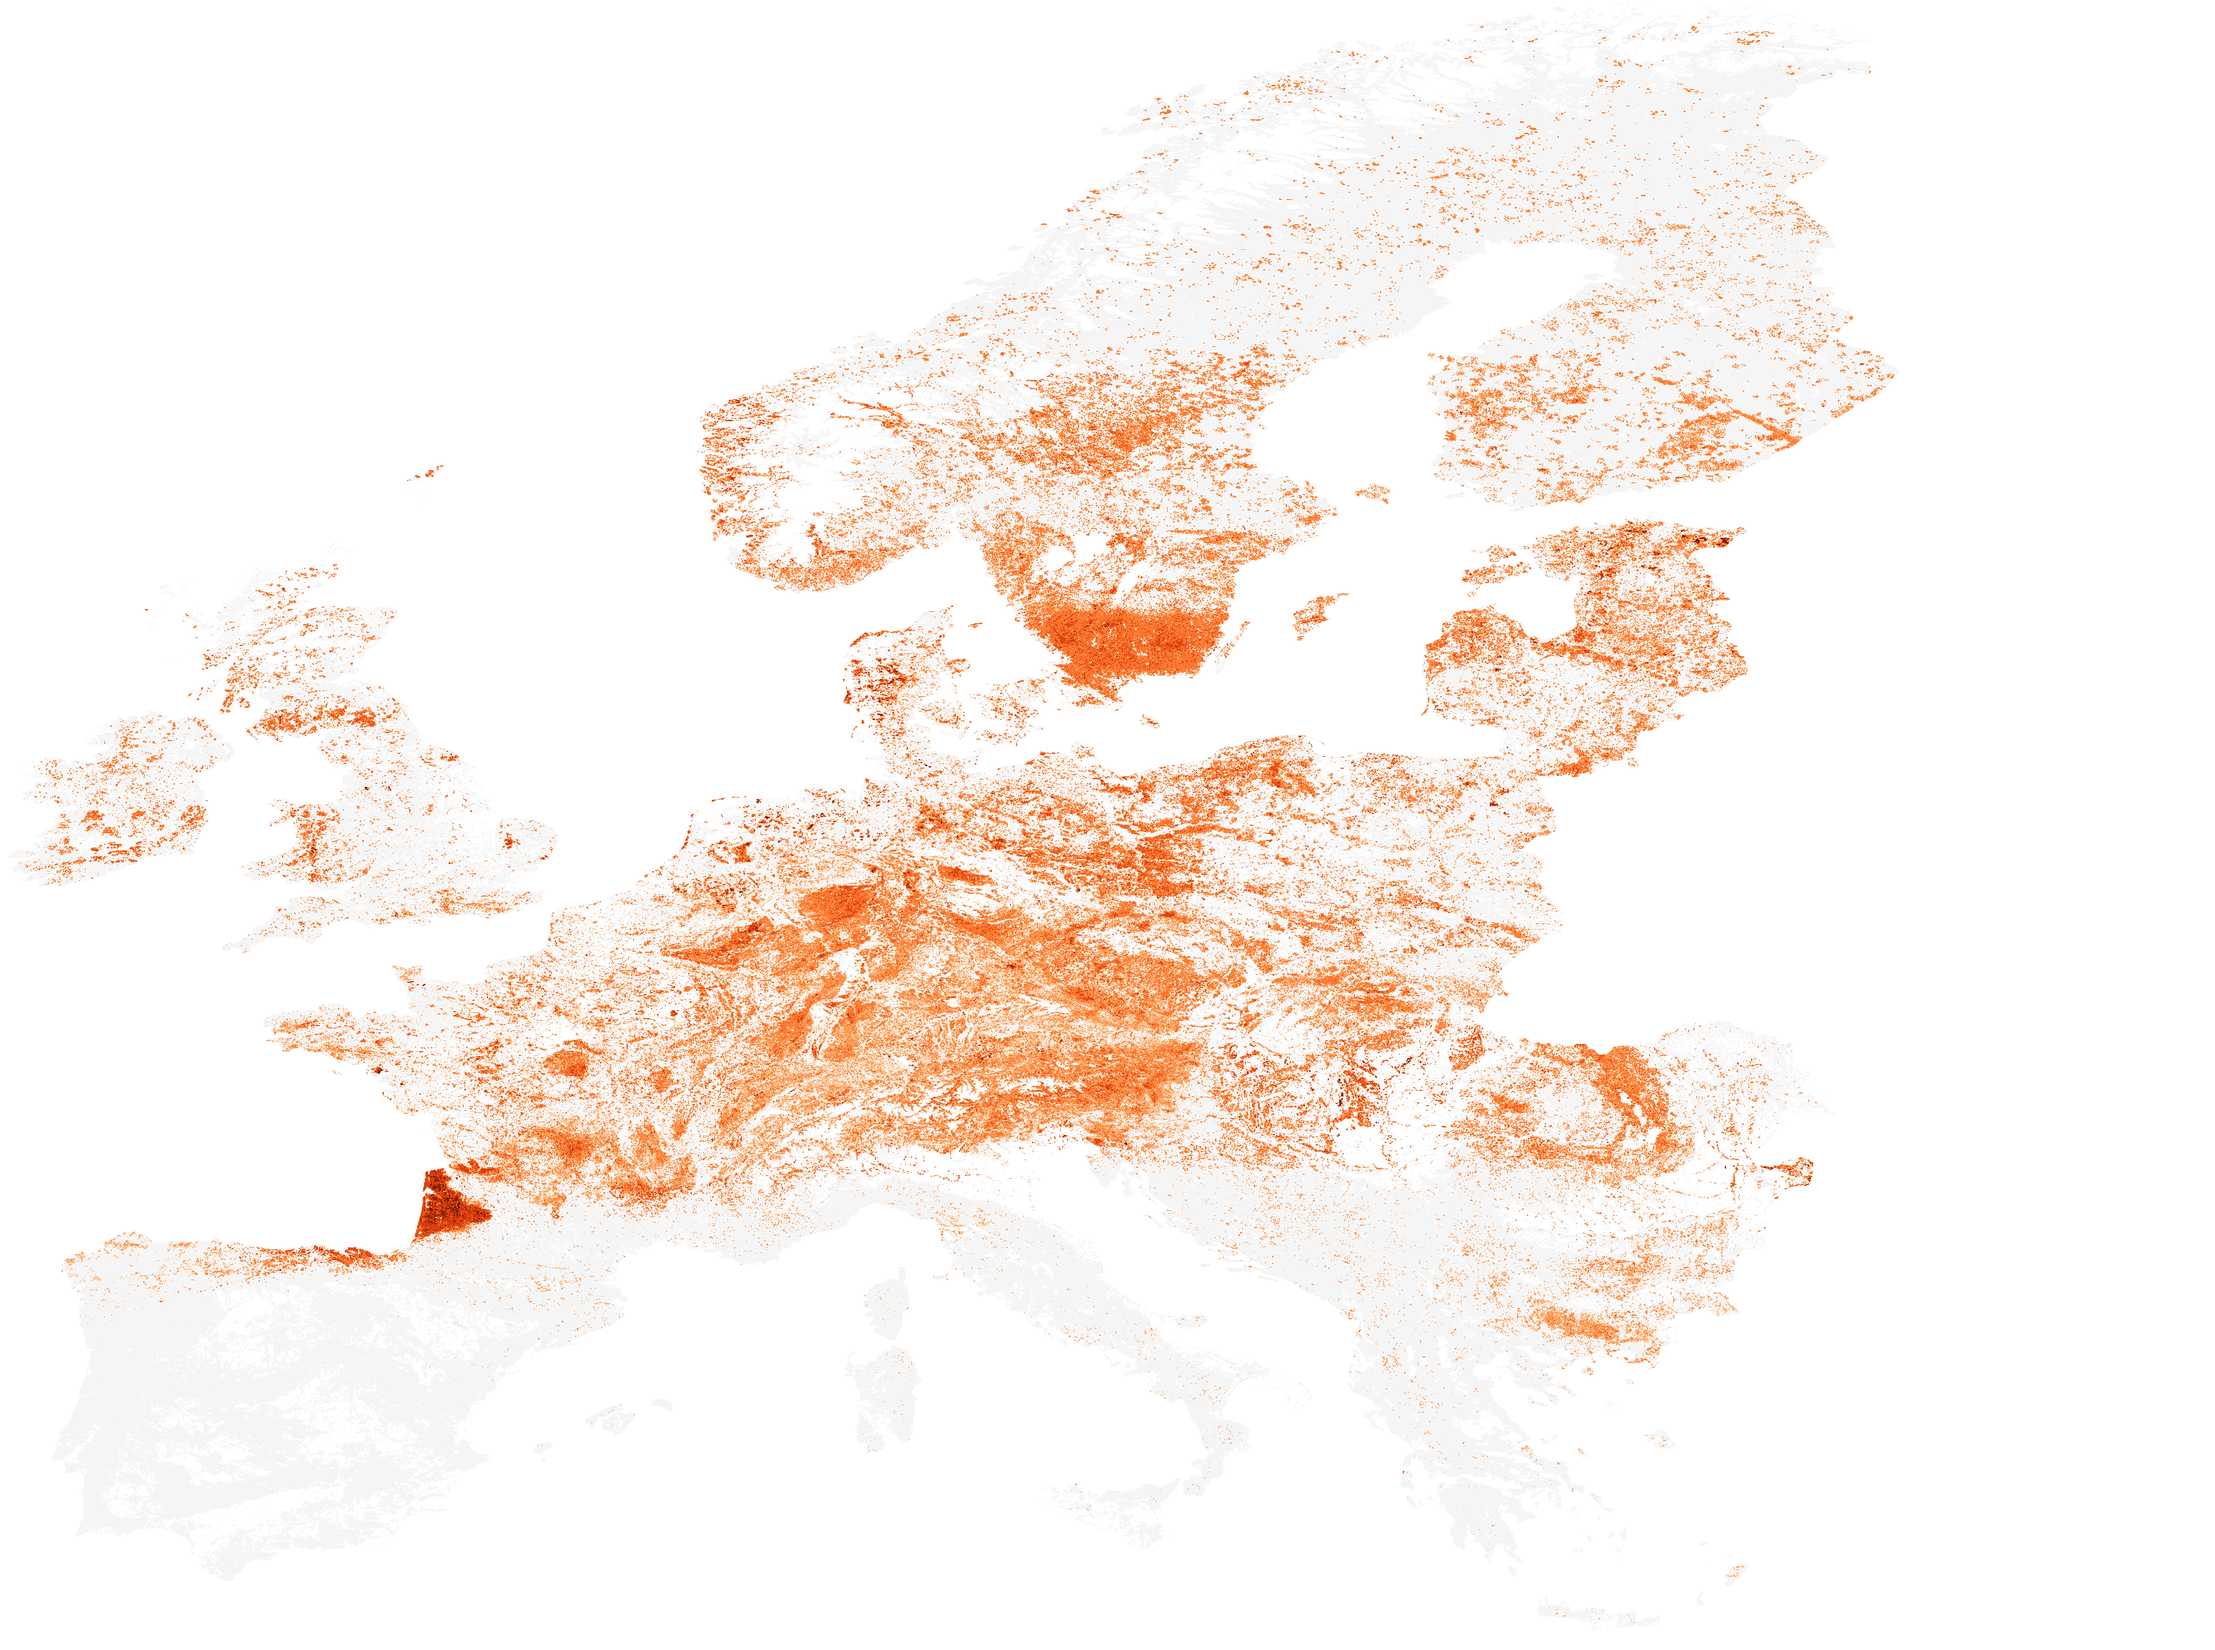
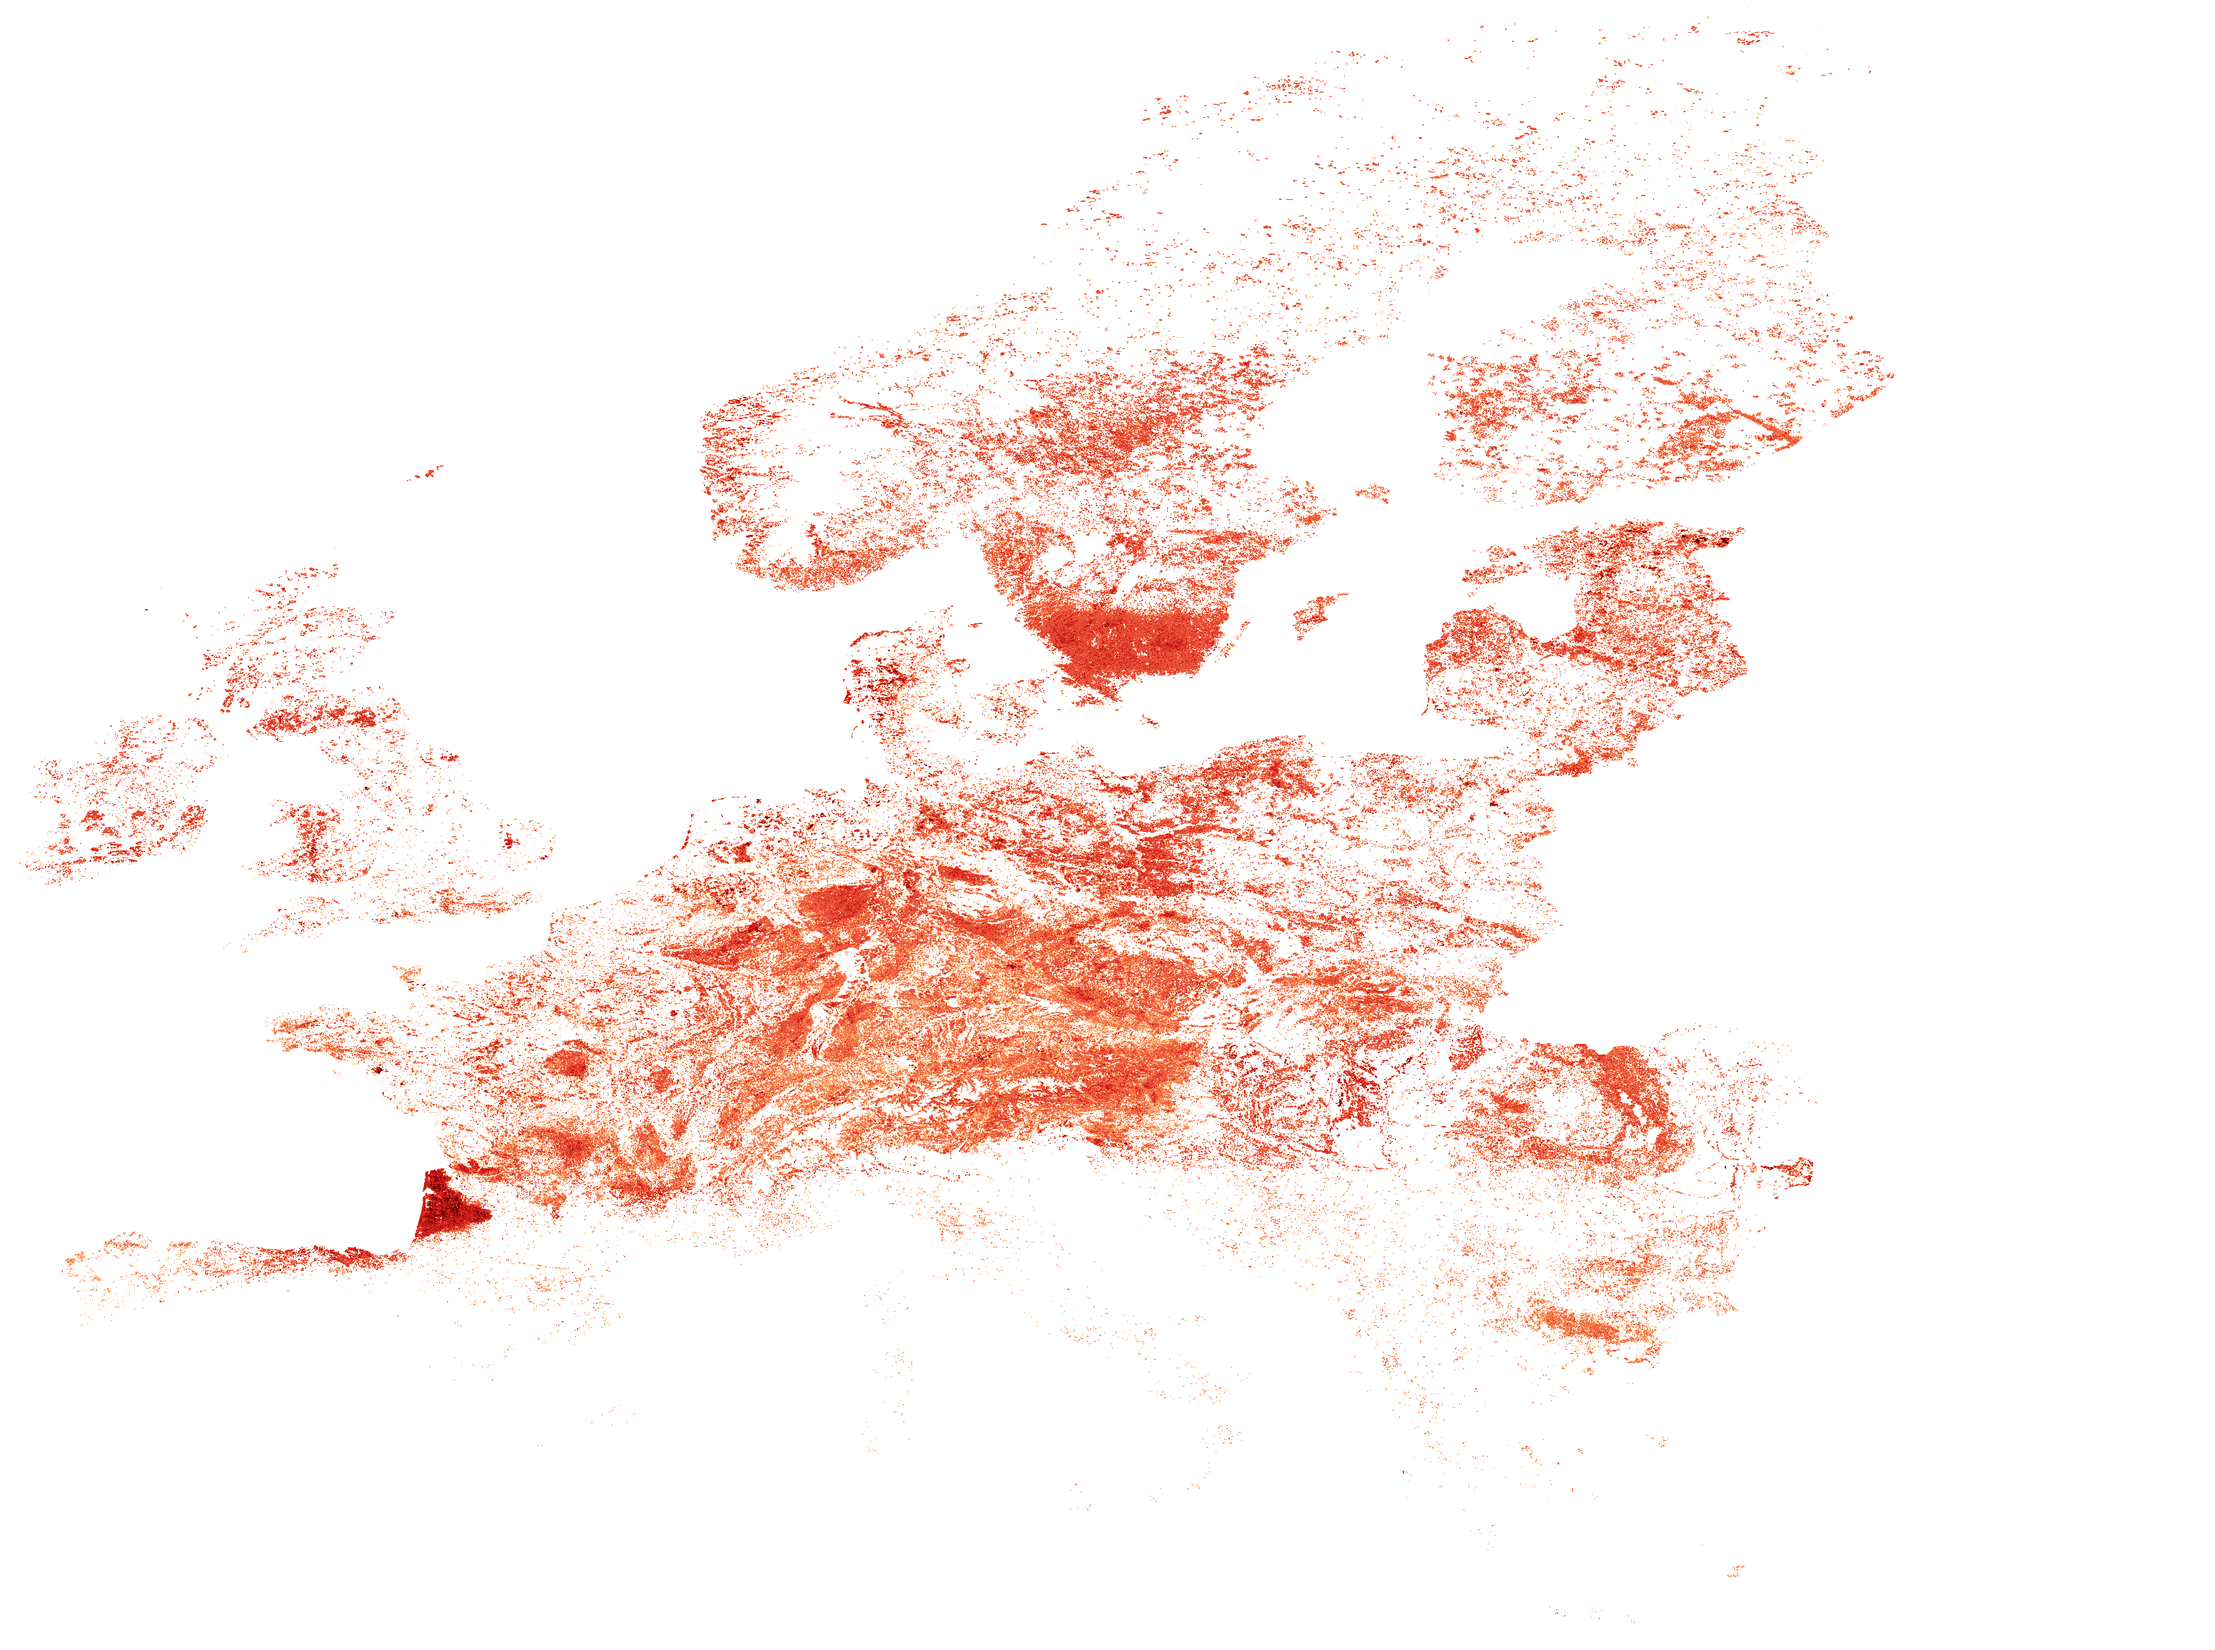
Make historical disturbance overlay visible

diff --git a/index.html b/index.html
@@ -531,7 +531,7 @@
       },
       bbtpast: {
         label: "Past bark beetle disturbance",
-        description: "Classified historical bark beetle disturbance surface for 1985-2023, optimized as a lightweight PNG overlay.",
+        description: "Classified historical bark beetle disturbance surface for 1985-2023. Zero values are transparent so nonzero disturbance stands out over the basemap.",
         available: true,
         usesRcp: false,
         usesYear: false,
